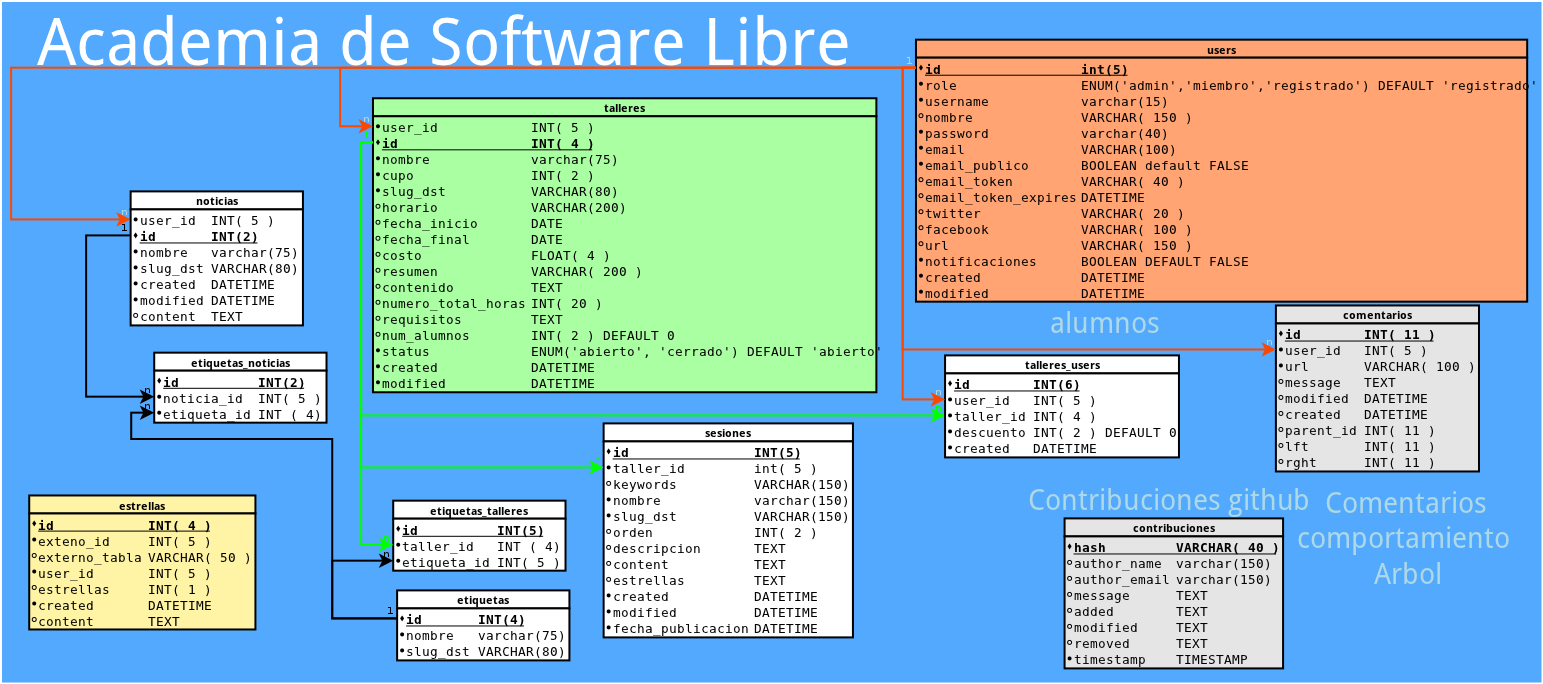
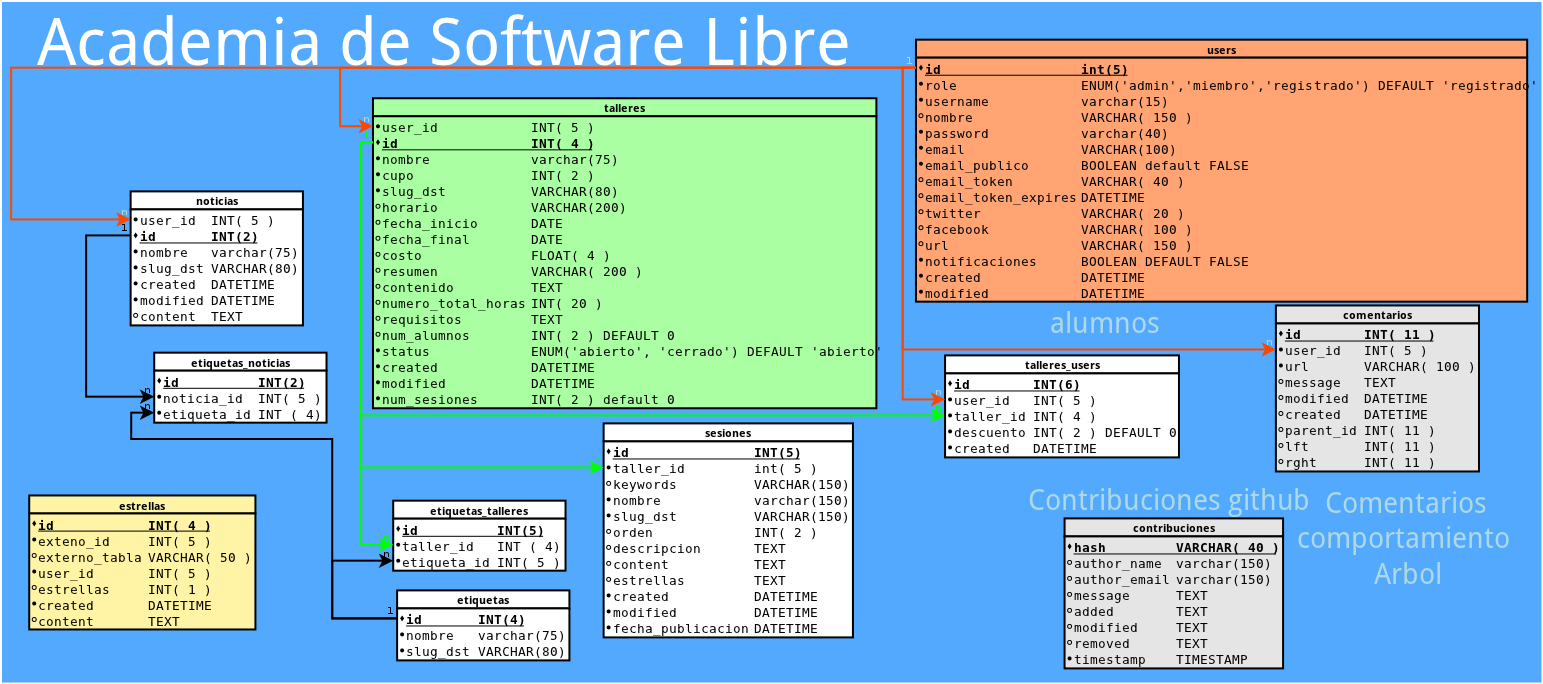
Agregando counterCache en los talleres.numero_sesiones #16

Changed region(s): [[0.2178, 0.5526, 0.5911, 0.614]]

diff --git a/app/Config/Schema/db/01-schema.js b/app/Config/Schema/db/01-schema.js
@@ -5,7 +5,7 @@ var tablas = [
 "nombre" : "talleres",
 "orden" : 1,
 "width" : 755,
-"height" : 441,
+"height" : 465,
 "pos_x" : 288,
 "pos_y" : 64,
 "fill_colour" : "#ABFFA3",
@@ -28,7 +28,8 @@ var tablas = [
  {"nombre" : "num_alumnos", "tipo": "INT( 2 ) DEFAULT 0", "clave_primaria": false,"es_null": true,"clave_unica": false,"auto_increment": false},
  {"nombre" : "status", "tipo": "ENUM('abierto', 'cerrado') DEFAULT 'abierto'", "clave_primaria": false,"es_null": false,"clave_unica": false,"auto_increment": false},
  {"nombre" : "created", "tipo": "DATETIME", "clave_primaria": false,"es_null": false,"clave_unica": false,"auto_increment": false},
- {"nombre" : "modified", "tipo": "DATETIME", "clave_primaria": false,"es_null": false,"clave_unica": false,"auto_increment": false}
+ {"nombre" : "modified", "tipo": "DATETIME", "clave_primaria": false,"es_null": false,"clave_unica": false,"auto_increment": false},
+ {"nombre" : "num_sesiones", "tipo": "INT( 2 ) DEFAULT 0", "clave_primaria": false,"es_null": false,"clave_unica": false,"auto_increment": false}
  ]
 },
 {
